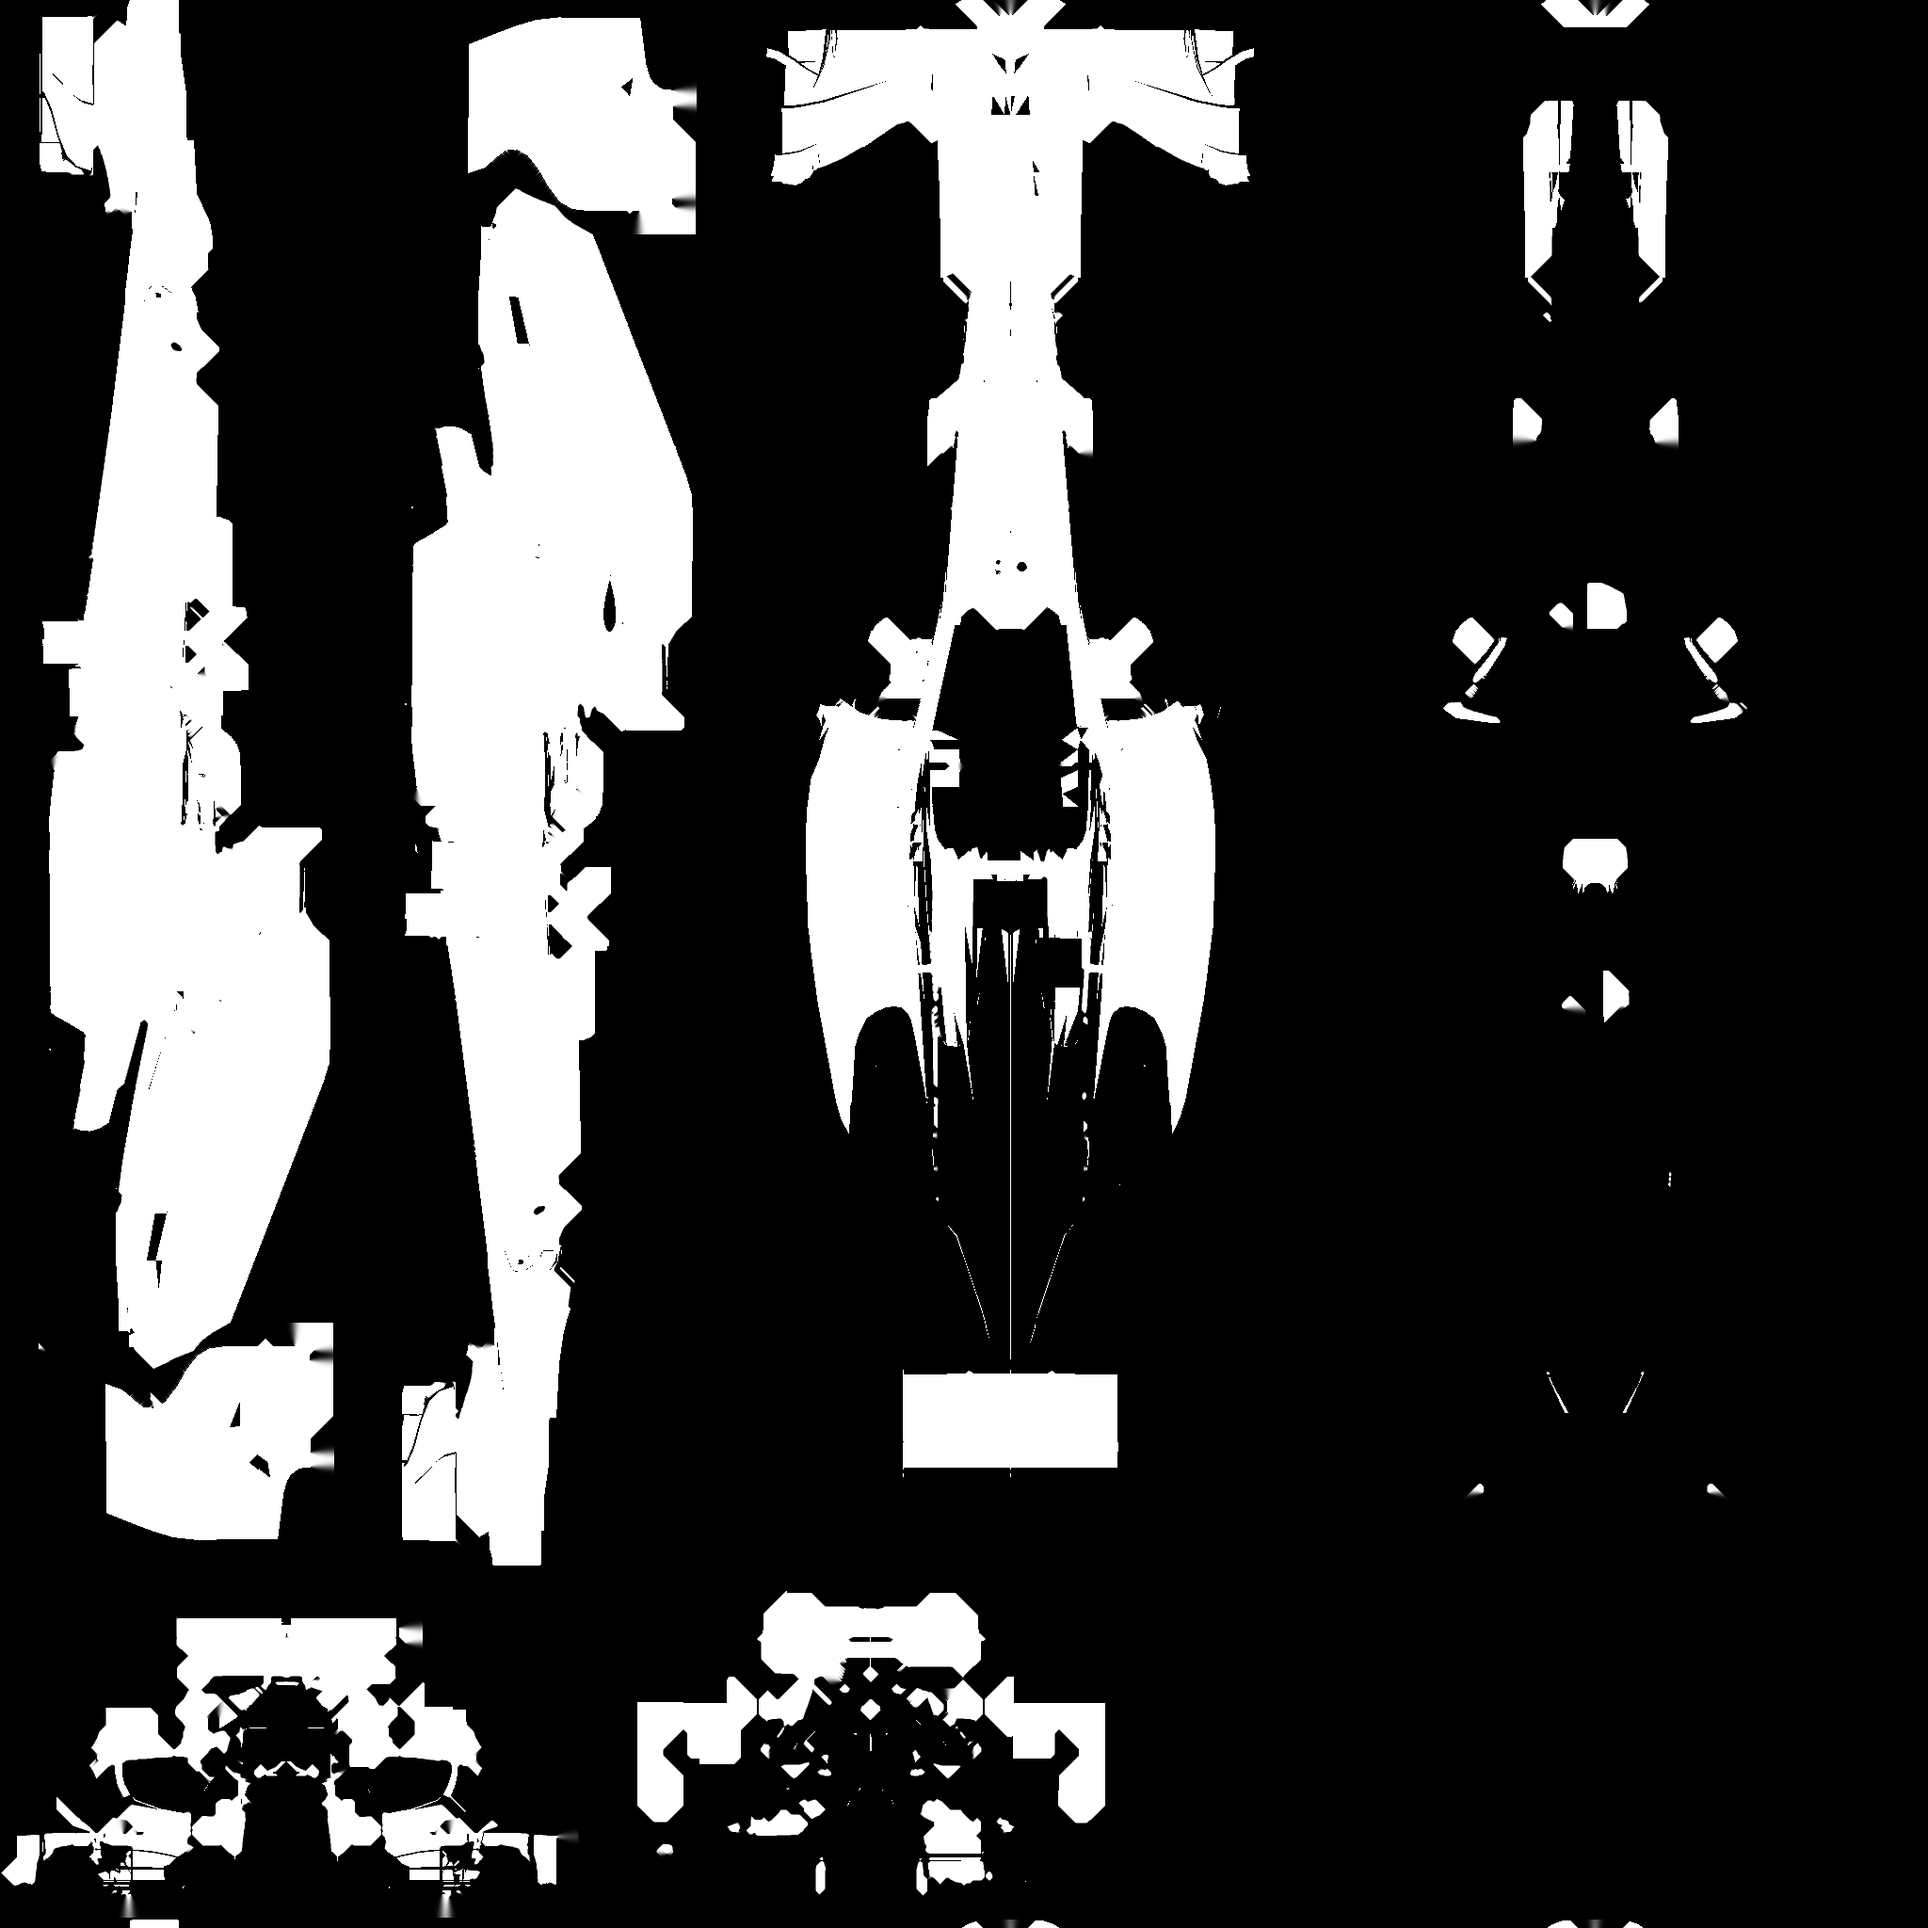
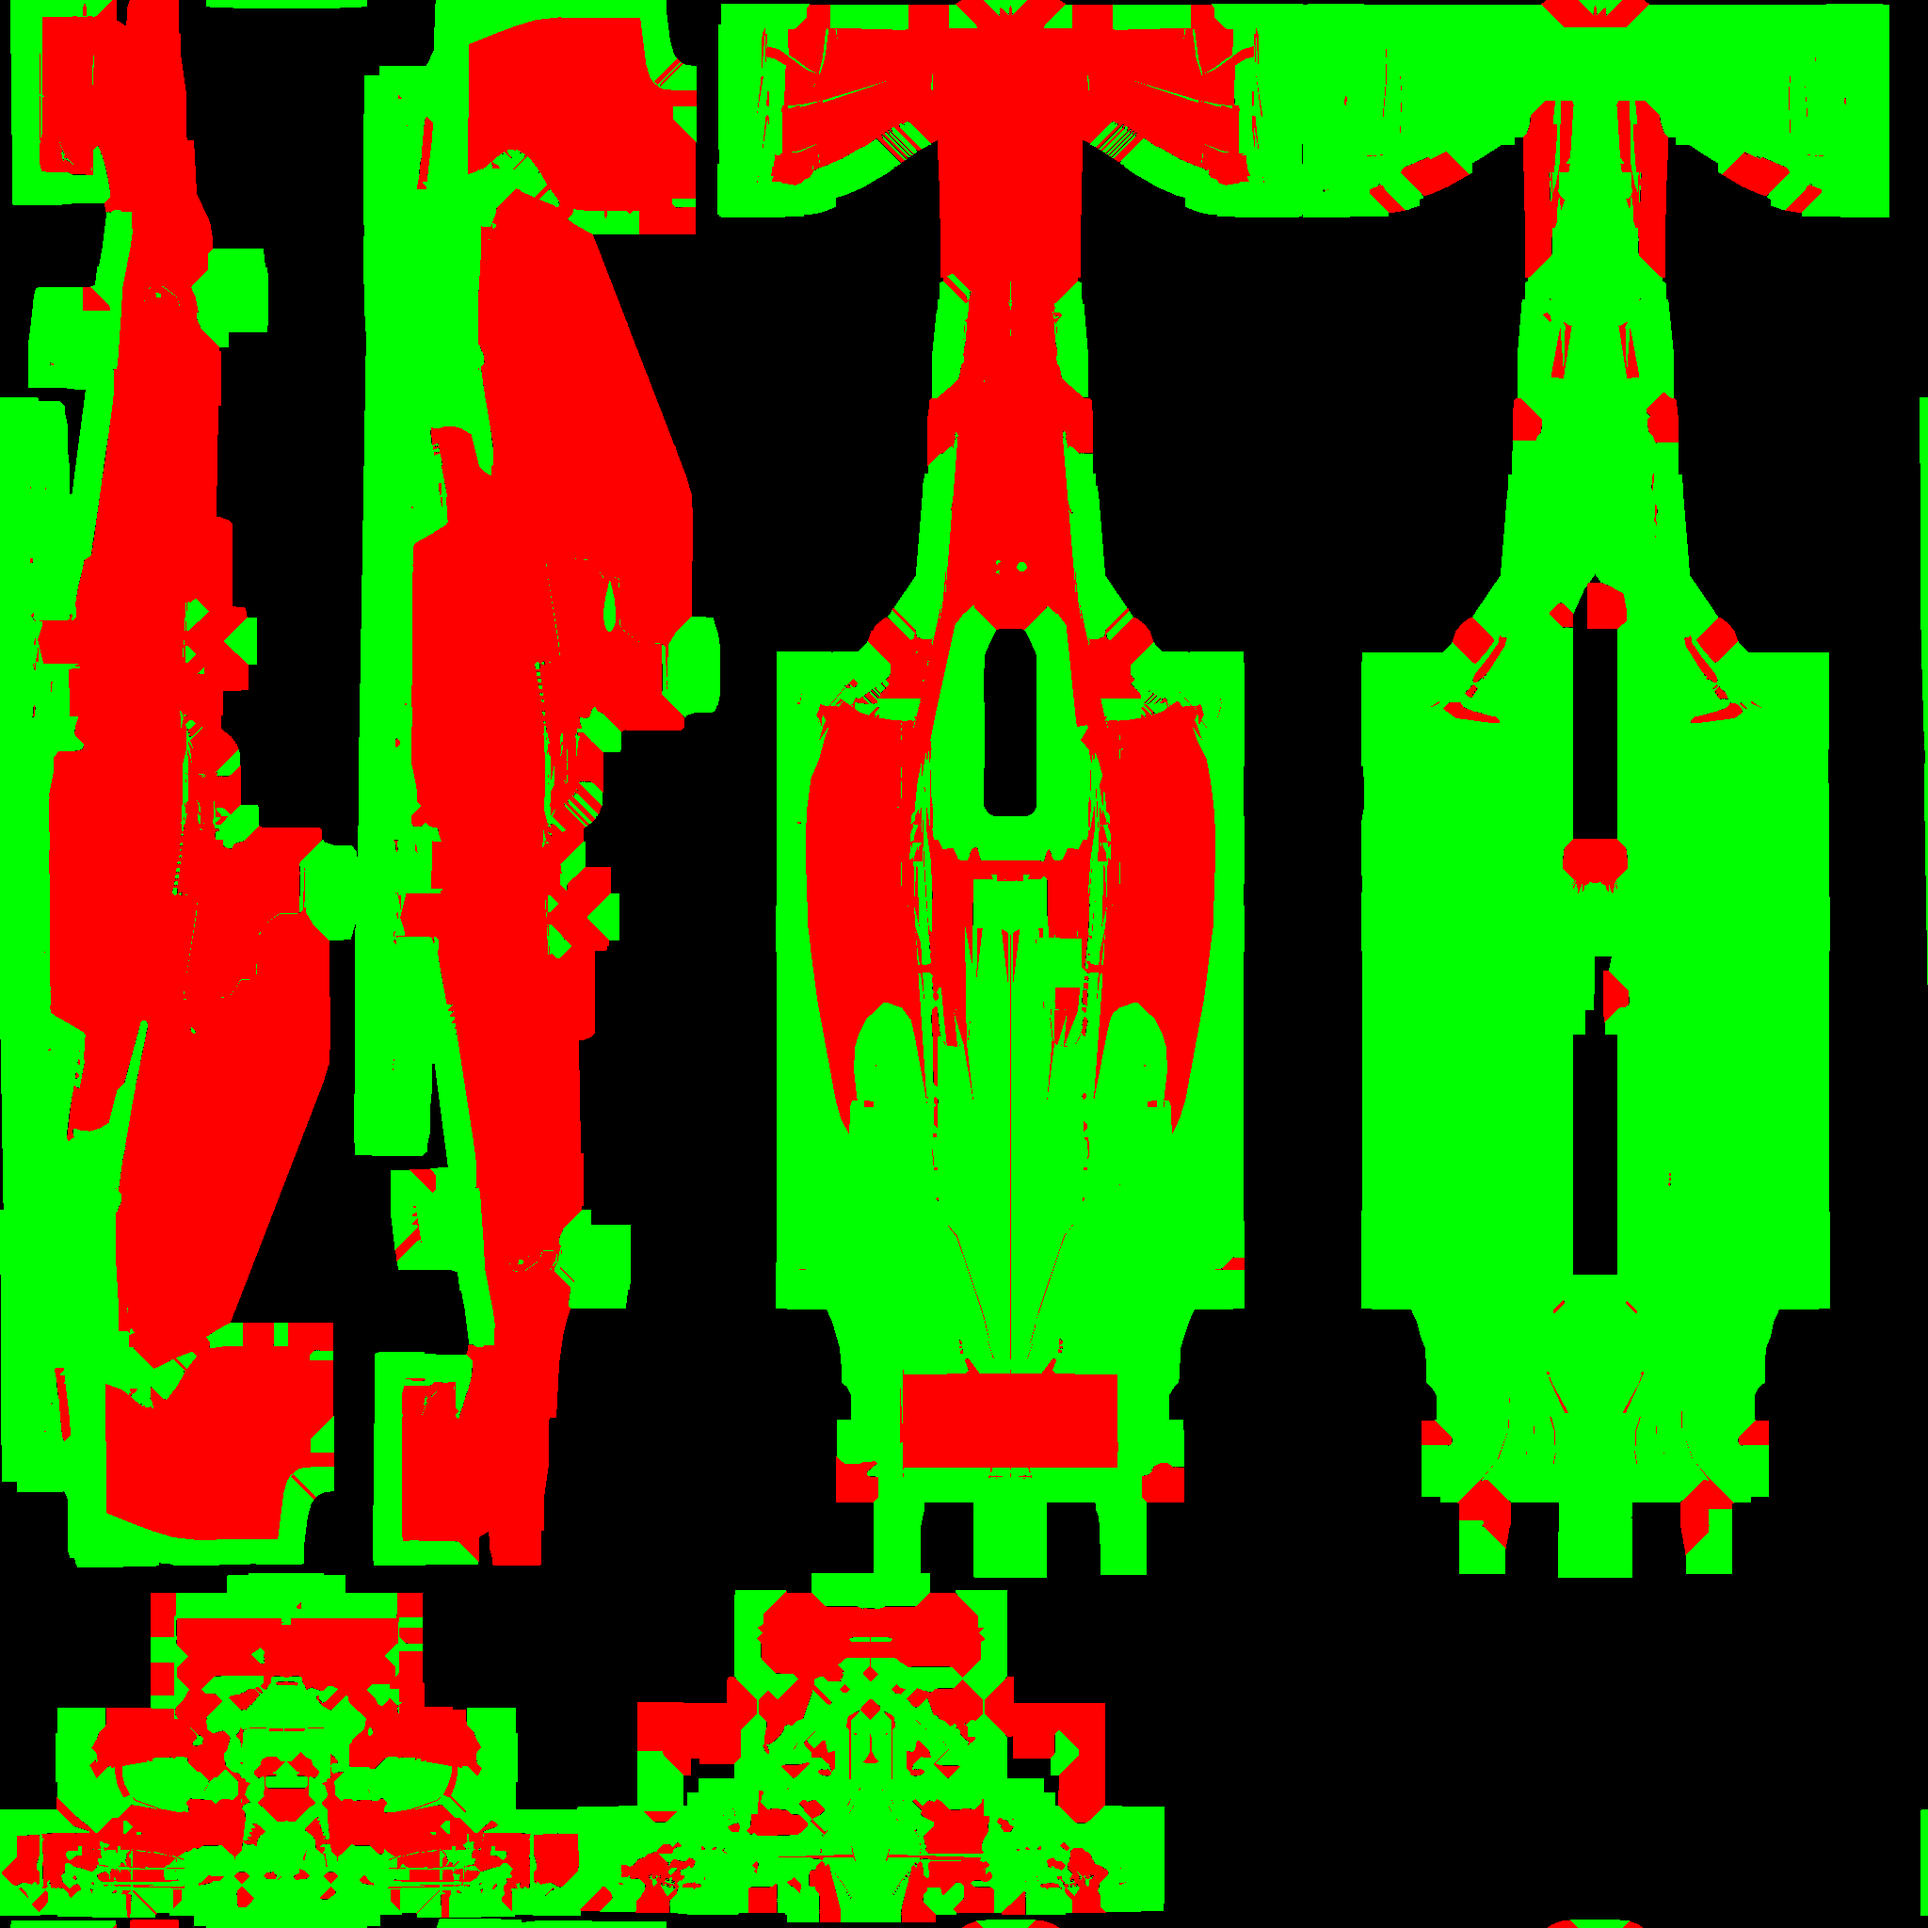
Team paint: cockpit housing, shoulder covers and other dark parts are plain black
The paint mask judged each surface by how dark its original paint was on
average, so surfaces carrying a dark logo (BlackBerry, numbers) were left on
the old livery, and the cockpit area came out patchy. It now takes the middle
colour of each surface (logos do not count), votes it over neighbouring
surfaces so there are no patches, and has two classes: the team colour (flat,
logos replaced) and plain black (cockpit inner housing, shoulder covers,
floor, diffuser). livery_mask.png is red / green for them.

diff --git a/tools/unwrap_livery.py b/tools/unwrap_livery.py
@@ -15,8 +15,8 @@ For assets/cars/<id> (after tools/rig_drs.py) it writes:
                             the centre line, to put on top of the painting as a layer
     livery_guide.png        the same on solid colours, one hue per view. Save a copy as livery.png
                             to see where each view lands on the car (and how it stretches)
-    livery_mask.png         white where a team colour replaces the paint, black where a part keeps
-                            its (dark) colours; the game tints with it
+    livery_mask.png         red: a team colour replaces the paint; green: the part is plain black
+                            (cockpit housing, shoulder covers, floor ...); the game paints with it
     livery_views.json       the layout: each view's panel on the sheet
 
 To use a livery in the game, paint on livery_default.png (keep it opaque) and save it as
@@ -134,8 +134,8 @@ def main():
     ap = argparse.ArgumentParser(description=__doc__, formatter_class=argparse.RawDescriptionHelpFormatter)
     ap.add_argument("car_dirs", nargs="+", metavar="car_dir")
     ap.add_argument("--size", type=int, default=2048, help="the livery sheet's side in texels")
-    ap.add_argument("--mask-threshold", type=float, default=0.22,
-                    help="a triangle whose paint is darker than this (0..1 brightness) is not recoloured")
+    ap.add_argument("--mask-threshold", type=float, default=0.2,
+                    help="a surface whose original paint is darker than this (0..1 brightness, the middle value) is plain black")
     a = ap.parse_args()
     for car_dir in a.car_dirs:
         unwrap(car_dir, a.size, a.mask_threshold)
@@ -244,18 +244,57 @@ def unwrap(d, size, a_thr):
     default_png.save(os.path.join(d, "livery_default.png"))
     print(f"{100 * hit.mean():.1f}% of the sheet is paint surface")
 
-    # the paint mask: white where a flat team colour replaces the paint, black where the part stays as
-    # it was (a triangle whose original colours are dark on average: floor, diffuser, carbon, tyre-black bits)
+    # the paint mask, two channels: red = a flat team colour replaces the paint, green = the part is
+    # plain black (the cockpit's inner housing, shoulder covers, floor, diffuser ...); neither = as it was.
+    # A surface is dark when the middle of its original colours is (so a logo does not make it dark or
+    # light), then dark and light are voted over each surface's neighbours so there are no patches.
     lum = (0.299 * baked[..., 0] + 0.587 * baked[..., 1] + 0.114 * baked[..., 2]) / 255.0
     ids = owner[hit]
-    mean = np.bincount(ids, weights=lum[hit], minlength=T) / np.maximum(1, np.bincount(ids, minlength=T))
-    flag = (mean > a_thr).astype(np.float64)
+    tri_of = order[ids]                                            # triangle that painted each texel
+    srt = np.argsort(tri_of, kind="stable")
+    cut = np.searchsorted(tri_of[srt], np.arange(T + 1))
+    lv = lum[hit][srt]
+    median = np.full(T, np.nan)
+    for t in range(T):
+        if cut[t + 1] > cut[t]:
+            median[t] = np.median(lv[cut[t]:cut[t + 1]])
+    dark = np.where(np.isnan(median), 0.0, (median < a_thr).astype(float))
+    # neighbours across shared edges (vertices welded by position)
+    flatp = cpos.reshape(-1, 3)
+    _, wid = np.unique(np.round(flatp / 1e-4).astype(np.int64), axis=0, return_inverse=True)
+    wf = wid.ravel().reshape(-1, 3)
+    edges = {}
+    for t in range(T):
+        for c in range(3):
+            u, v = int(wf[t, c]), int(wf[t, (c + 1) % 3])
+            if u != v:
+                edges.setdefault((min(u, v), max(u, v)), []).append(t)
+    nb = [[] for _ in range(T)]
+    for lst in edges.values():
+        for x in lst:
+            nb[x].extend(y for y in lst if y != x)
+    weight = np.maximum(0.5 * nlen, 1e-9)
+    state = dark.copy()
+    for _ in range(6):
+        nxt = state.copy()
+        for t in range(T):
+            if not nb[t]:
+                continue
+            tot = weight[t] * 1.5 + sum(weight[y] for y in nb[t])
+            blk = weight[t] * 1.5 * state[t] + sum(weight[y] * state[y] for y in nb[t])
+            nxt[t] = 1.0 if blk > 0.5 * tot else 0.0
+        state = nxt
     mask = np.zeros((size, size, 4))
-    mask[hit, 0] = flag[ids]
+    mask[hit, 0] = 1.0 - state[tri_of]
+    mask[hit, 1] = state[tri_of]
     mask_p, got_m = pad(mask, hit, 24)
-    mimg = np.where(got_m, mask_p[..., 0], 0.0)
-    Image.fromarray(np.clip(mimg * 255 + 0.5, 0, 255).astype(np.uint8), "L").save(os.path.join(d, "livery_mask.png"))
-    print(f"{100 * float(flag[ids].mean()):.1f}% of the paint surface takes a team colour")
+    rgb = np.zeros((size, size, 3), np.uint8)
+    rgb[..., 0] = (mask_p[..., 0] > 0.5) & got_m
+    rgb[..., 1] = (mask_p[..., 1] > 0.5) & got_m
+    rgb *= 255
+    Image.fromarray(rgb, "RGB").save(os.path.join(d, "livery_mask.png"))
+    pt = state[tri_of]
+    print(f"{100 * float(1 - pt.mean()):.1f}% of the paint surface takes a team colour, {100 * float(pt.mean()):.1f}% is plain black")
 
     # the template and the guide
     sc = 2

diff --git a/apps/viewer2/car_render.cpp b/apps/viewer2/car_render.cpp
@@ -145,7 +145,7 @@ bool CarRender::load(const std::string& dir, const Finish& paint, std::string* e
         paintMask_ = LoadImage((dir + "/livery_mask.png").c_str());
         if (paintBase_.data && paintMask_.data && paintBase_.width == paintMask_.width && paintBase_.height == paintMask_.height) {
             ImageFormat(&paintBase_, PIXELFORMAT_UNCOMPRESSED_R8G8B8);
-            ImageFormat(&paintMask_, PIXELFORMAT_UNCOMPRESSED_GRAYSCALE);
+            ImageFormat(&paintMask_, PIXELFORMAT_UNCOMPRESSED_R8G8B8);
         } else {
             UnloadImage(paintBase_);
             UnloadImage(paintMask_);
@@ -194,10 +194,14 @@ gfx::TextureSet* CarRender::paintSet(Color c) {
     unsigned char* px = (unsigned char*)img.data;
     const unsigned char* mk = (const unsigned char*)paintMask_.data;
     const unsigned char col[3] = {c.r, c.g, c.b};
+    const unsigned char black[3] = {18, 18, 20};
     for (int i = 0, n = img.width * img.height; i < n; ++i) {
-        const int a = mk[i];
-        if (a == 0) continue;
-        for (int k = 0; k < 3; ++k) px[3 * i + k] = (unsigned char)((px[3 * i + k] * (255 - a) + col[k] * a + 127) / 255);
+        const int team = mk[3 * i], plain = mk[3 * i + 1];   // red: the team colour; green: plain black
+        if (!team && !plain) continue;
+        for (int k = 0; k < 3; ++k) {
+            const int to = plain ? black[k] : col[k];
+            px[3 * i + k] = (unsigned char)(to);
+        }
     }
     Texture2D t = LoadTextureFromImage(img);
     UnloadImage(img);

diff --git a/apps/viewer2/car_render.hpp b/apps/viewer2/car_render.hpp
@@ -32,7 +32,7 @@ public:
     void setDrsOpen(float open) { drsOpen_ = open < 0 ? 0 : open > 1 ? 1 : open; }
     bool hasDrs() const { return !drs_parts_.empty(); }
     // The team colour: the body's paint in this colour, parts that are dark in the model's own paint
-    // (floor, diffuser, carbon) as they were (livery_default.png and livery_mask.png in the model's
+    // (floor, diffuser, cockpit housing, shoulder covers) plain black (livery_default.png and livery_mask.png in the model's
     // folder). Does nothing without them, or when the folder has a livery.png of its own.
     void setPaint(Color c);
     // The tyre compound fitted (RR_TIRE_*, update() follows the car's): the lettering on the sidewall is

diff --git a/assets/cars/f1_2013_02/README.md b/assets/cars/f1_2013_02/README.md
@@ -43,7 +43,7 @@ view. Nothing is baked in but the colours: sponsor logos are just paint.
 | `livery_default.png` | the car's original Mercedes paint on this layout: start from this |
 | `livery_template.png` | transparent: panel frames and names, a 0.5 m grid, the wheel circles, the centre line; keep it on a layer above the painting and hide it when you save |
 | `livery_guide.png` | the same on a solid colour per view; save a copy as `livery.png` to see where each view lands on the car |
-| `livery_mask.png` | white where a team colour replaces the paint, black where a part keeps its colours (made by the tool from how dark each surface is in the default paint; `--mask-threshold` changes the cut) |
+| `livery_mask.png` | red: a team colour replaces the paint; green: plain black (cockpit housing, shoulder covers, floor, diffuser). Made by the tool from the middle colour of each surface in the default paint, smoothed over neighbouring surfaces; `--mask-threshold` changes the cut |
 | `livery_views.json` | where each view's panel is on the sheet, in texels, and its size in metres |
 | `livery.png` | **your livery**, if you make one (not in the repo) |
 
@@ -69,7 +69,7 @@ cars of the 2013 pack (`D:\RR2 assets\f1_2013_split`).
 
 In the game each team has a colour, picked in the setup menu (click a team on the GRID card: a hue /
 saturation / value picker, with the ten preset colours: red, blue, orange, green, yellow, purple, teal,
-white, navy, black). Viewer v2 paints the car with it: `livery_mask.png` is white where the body takes
-the colour (a flat fill) and black where a part keeps its own paint, so the floor, diffuser and the dark
-carbon bits stay dark. Wheels, tyres and the suspension are other materials and are never touched.
+white, navy, black). Viewer v2 paints the car with it: `livery_mask.png` is red where the body takes
+the colour (a flat fill, logos and all) and green where a part is plain black, so the cockpit's inner
+housing, the shoulder covers, the floor and the diffuser stay black. Wheels, tyres and the suspension are other materials and are never touched.
 If the folder has a `livery.png` of its own, it is used as it is and the team colours do nothing.
